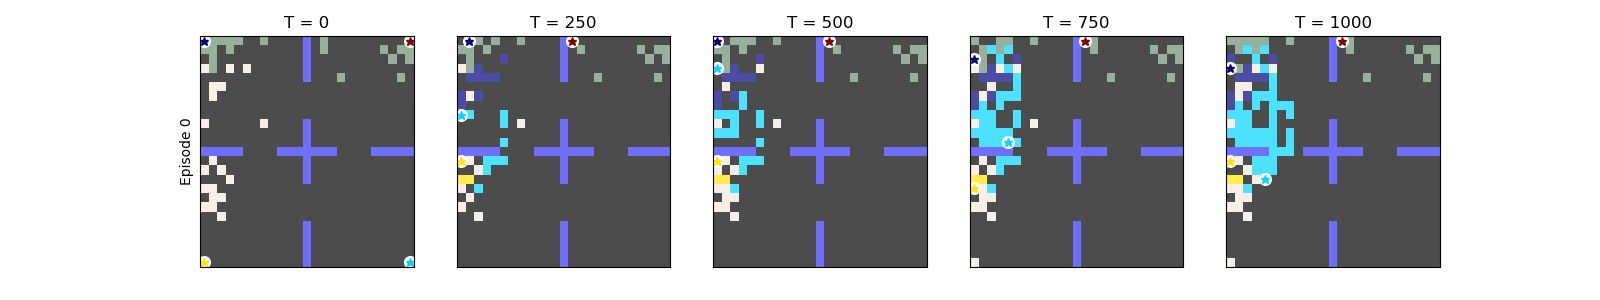
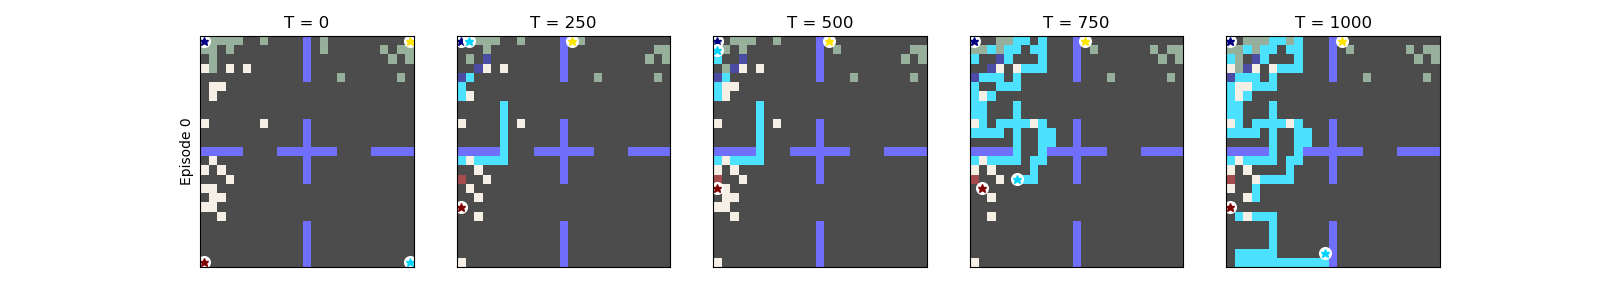
plt

diff --git a/tutorials/utils/plotStuff.py b/tutorials/utils/plotStuff.py
@@ -6,7 +6,7 @@ import plotting
 import os
 
 base = "../rllib/phase2/dense_logs/"
-log_path = os.path.join(base, "logs_0000000020004000/env000.lz4")
+log_path = os.path.join(base, "logs_0000000036486000/env000.lz4")
 dense_log = load_episode_log(log_path)
 (fig0, fig1, fig2), incomes, endows, c_trades, all_builds = plotting.breakdown(dense_log)
 fig = plotting.vis_world_range(dense_log, t0=0, tN=200, N=5)
